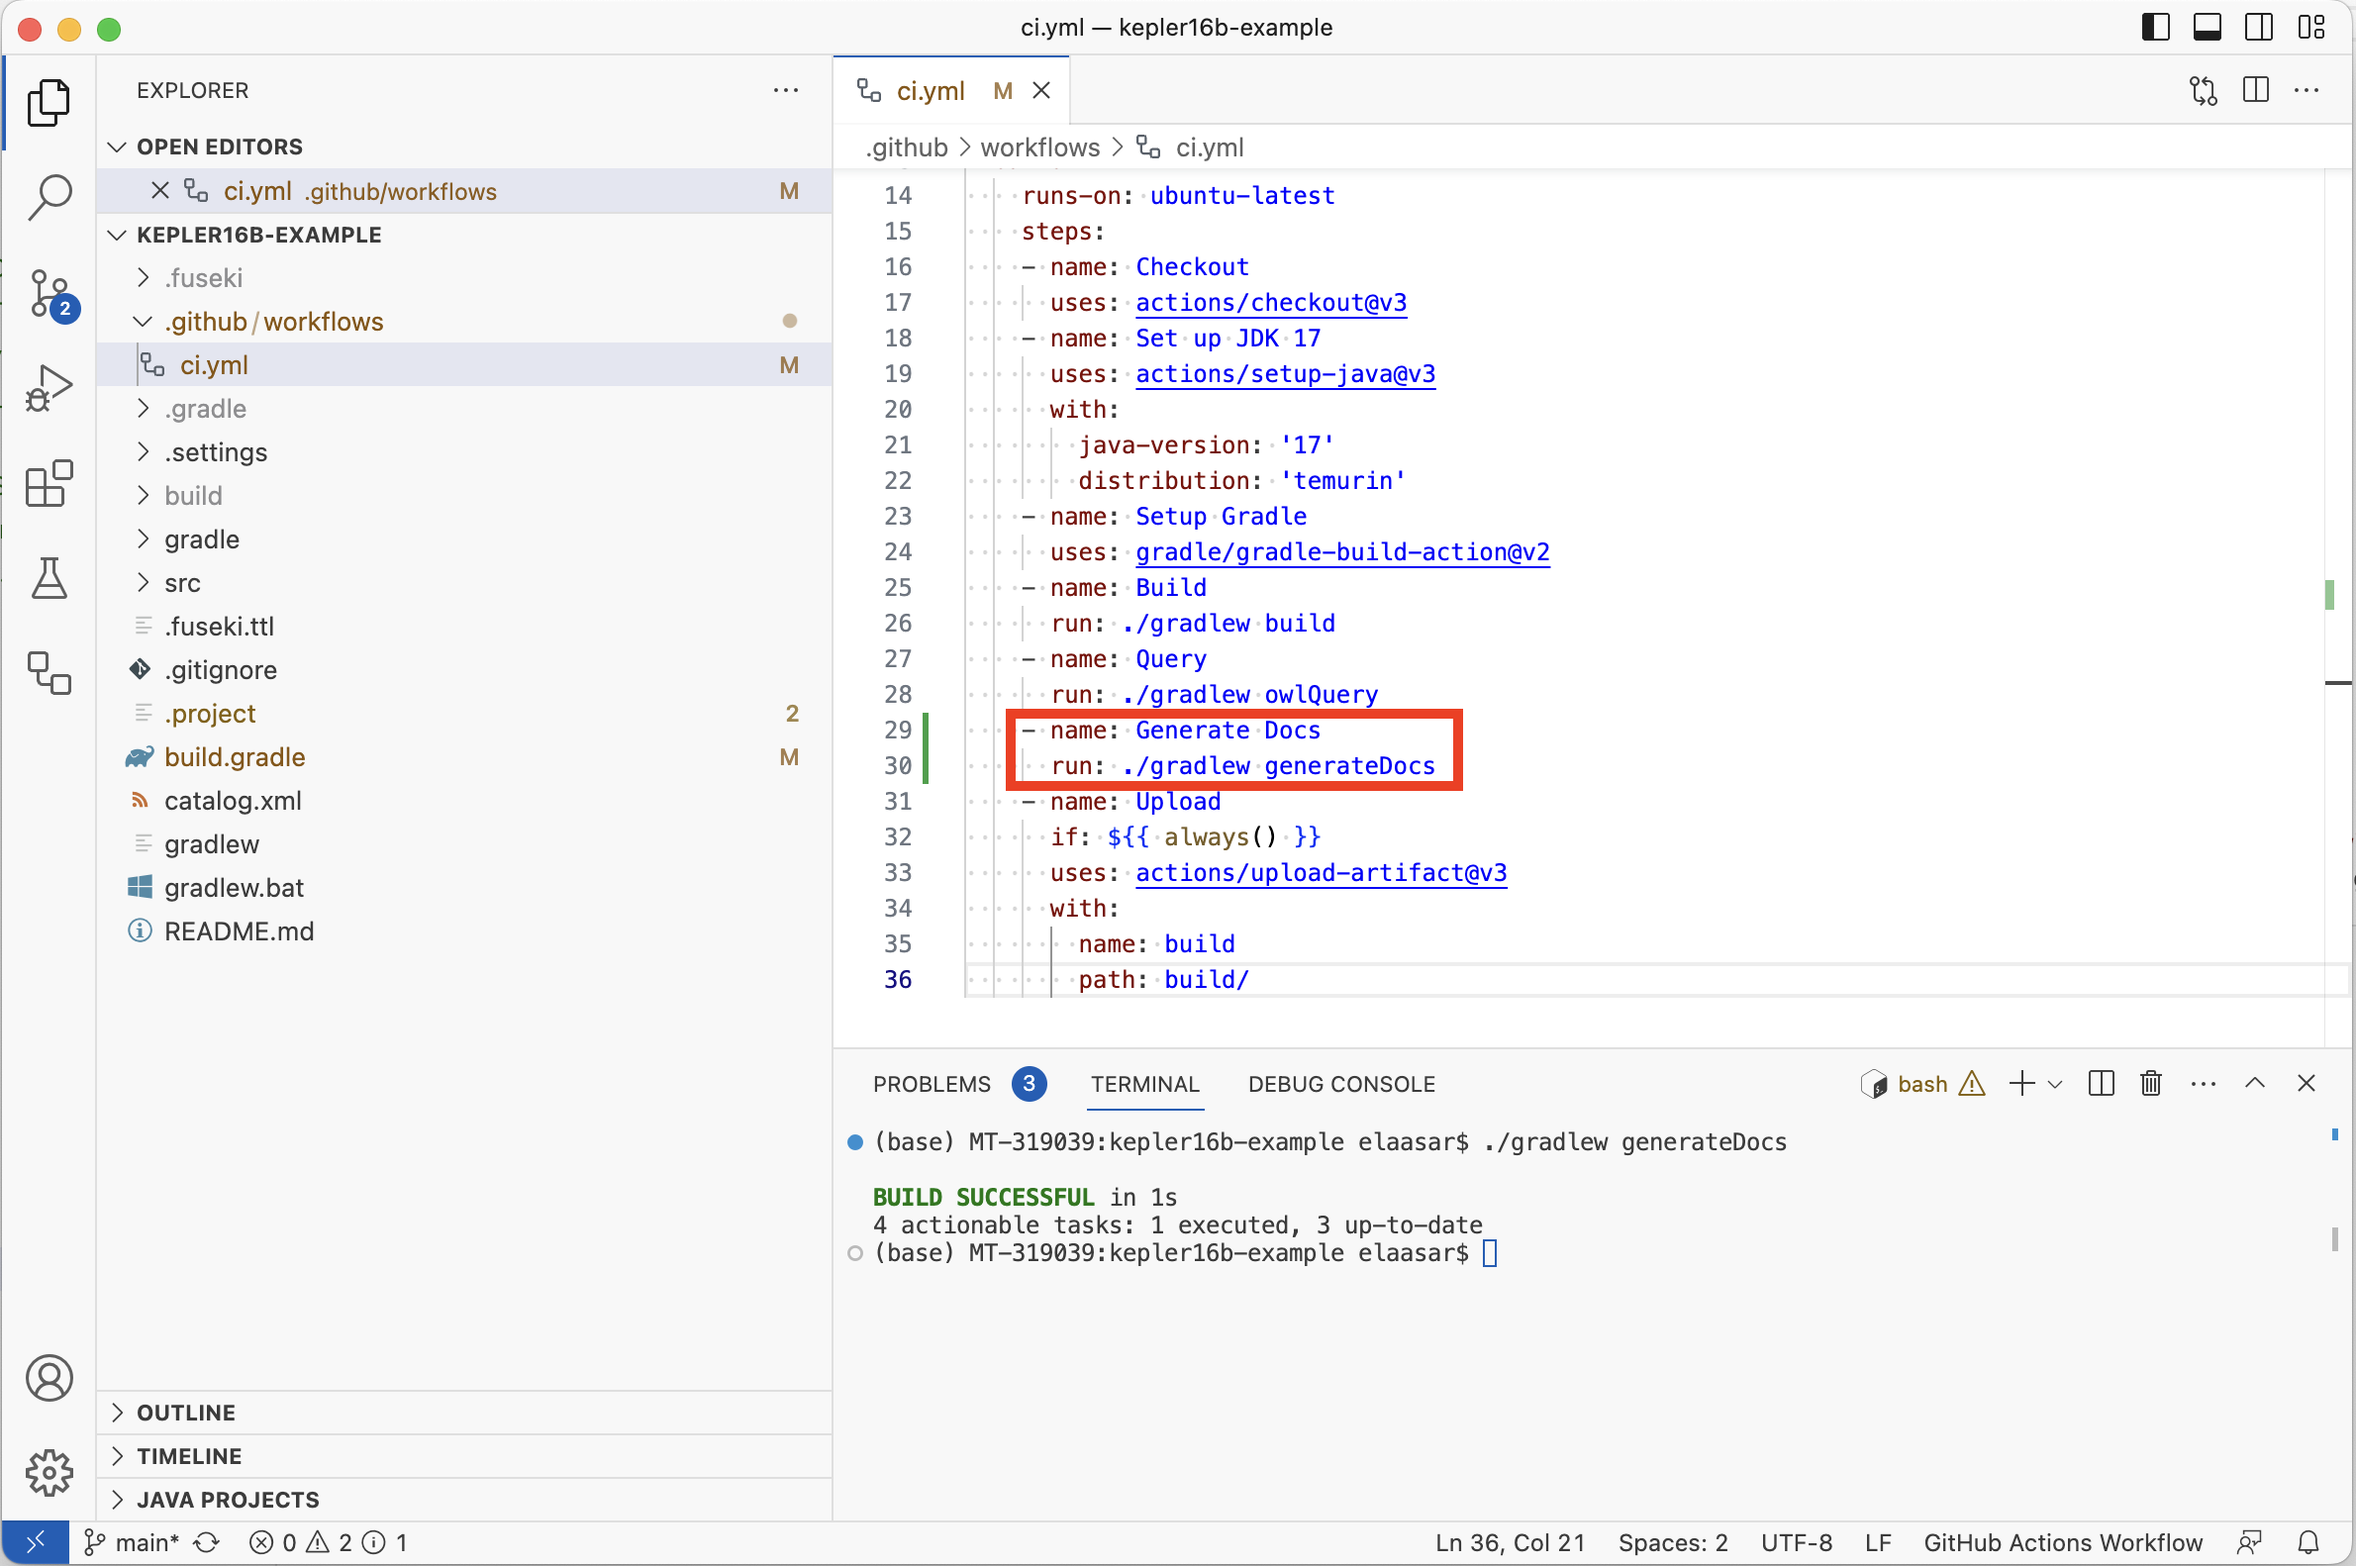
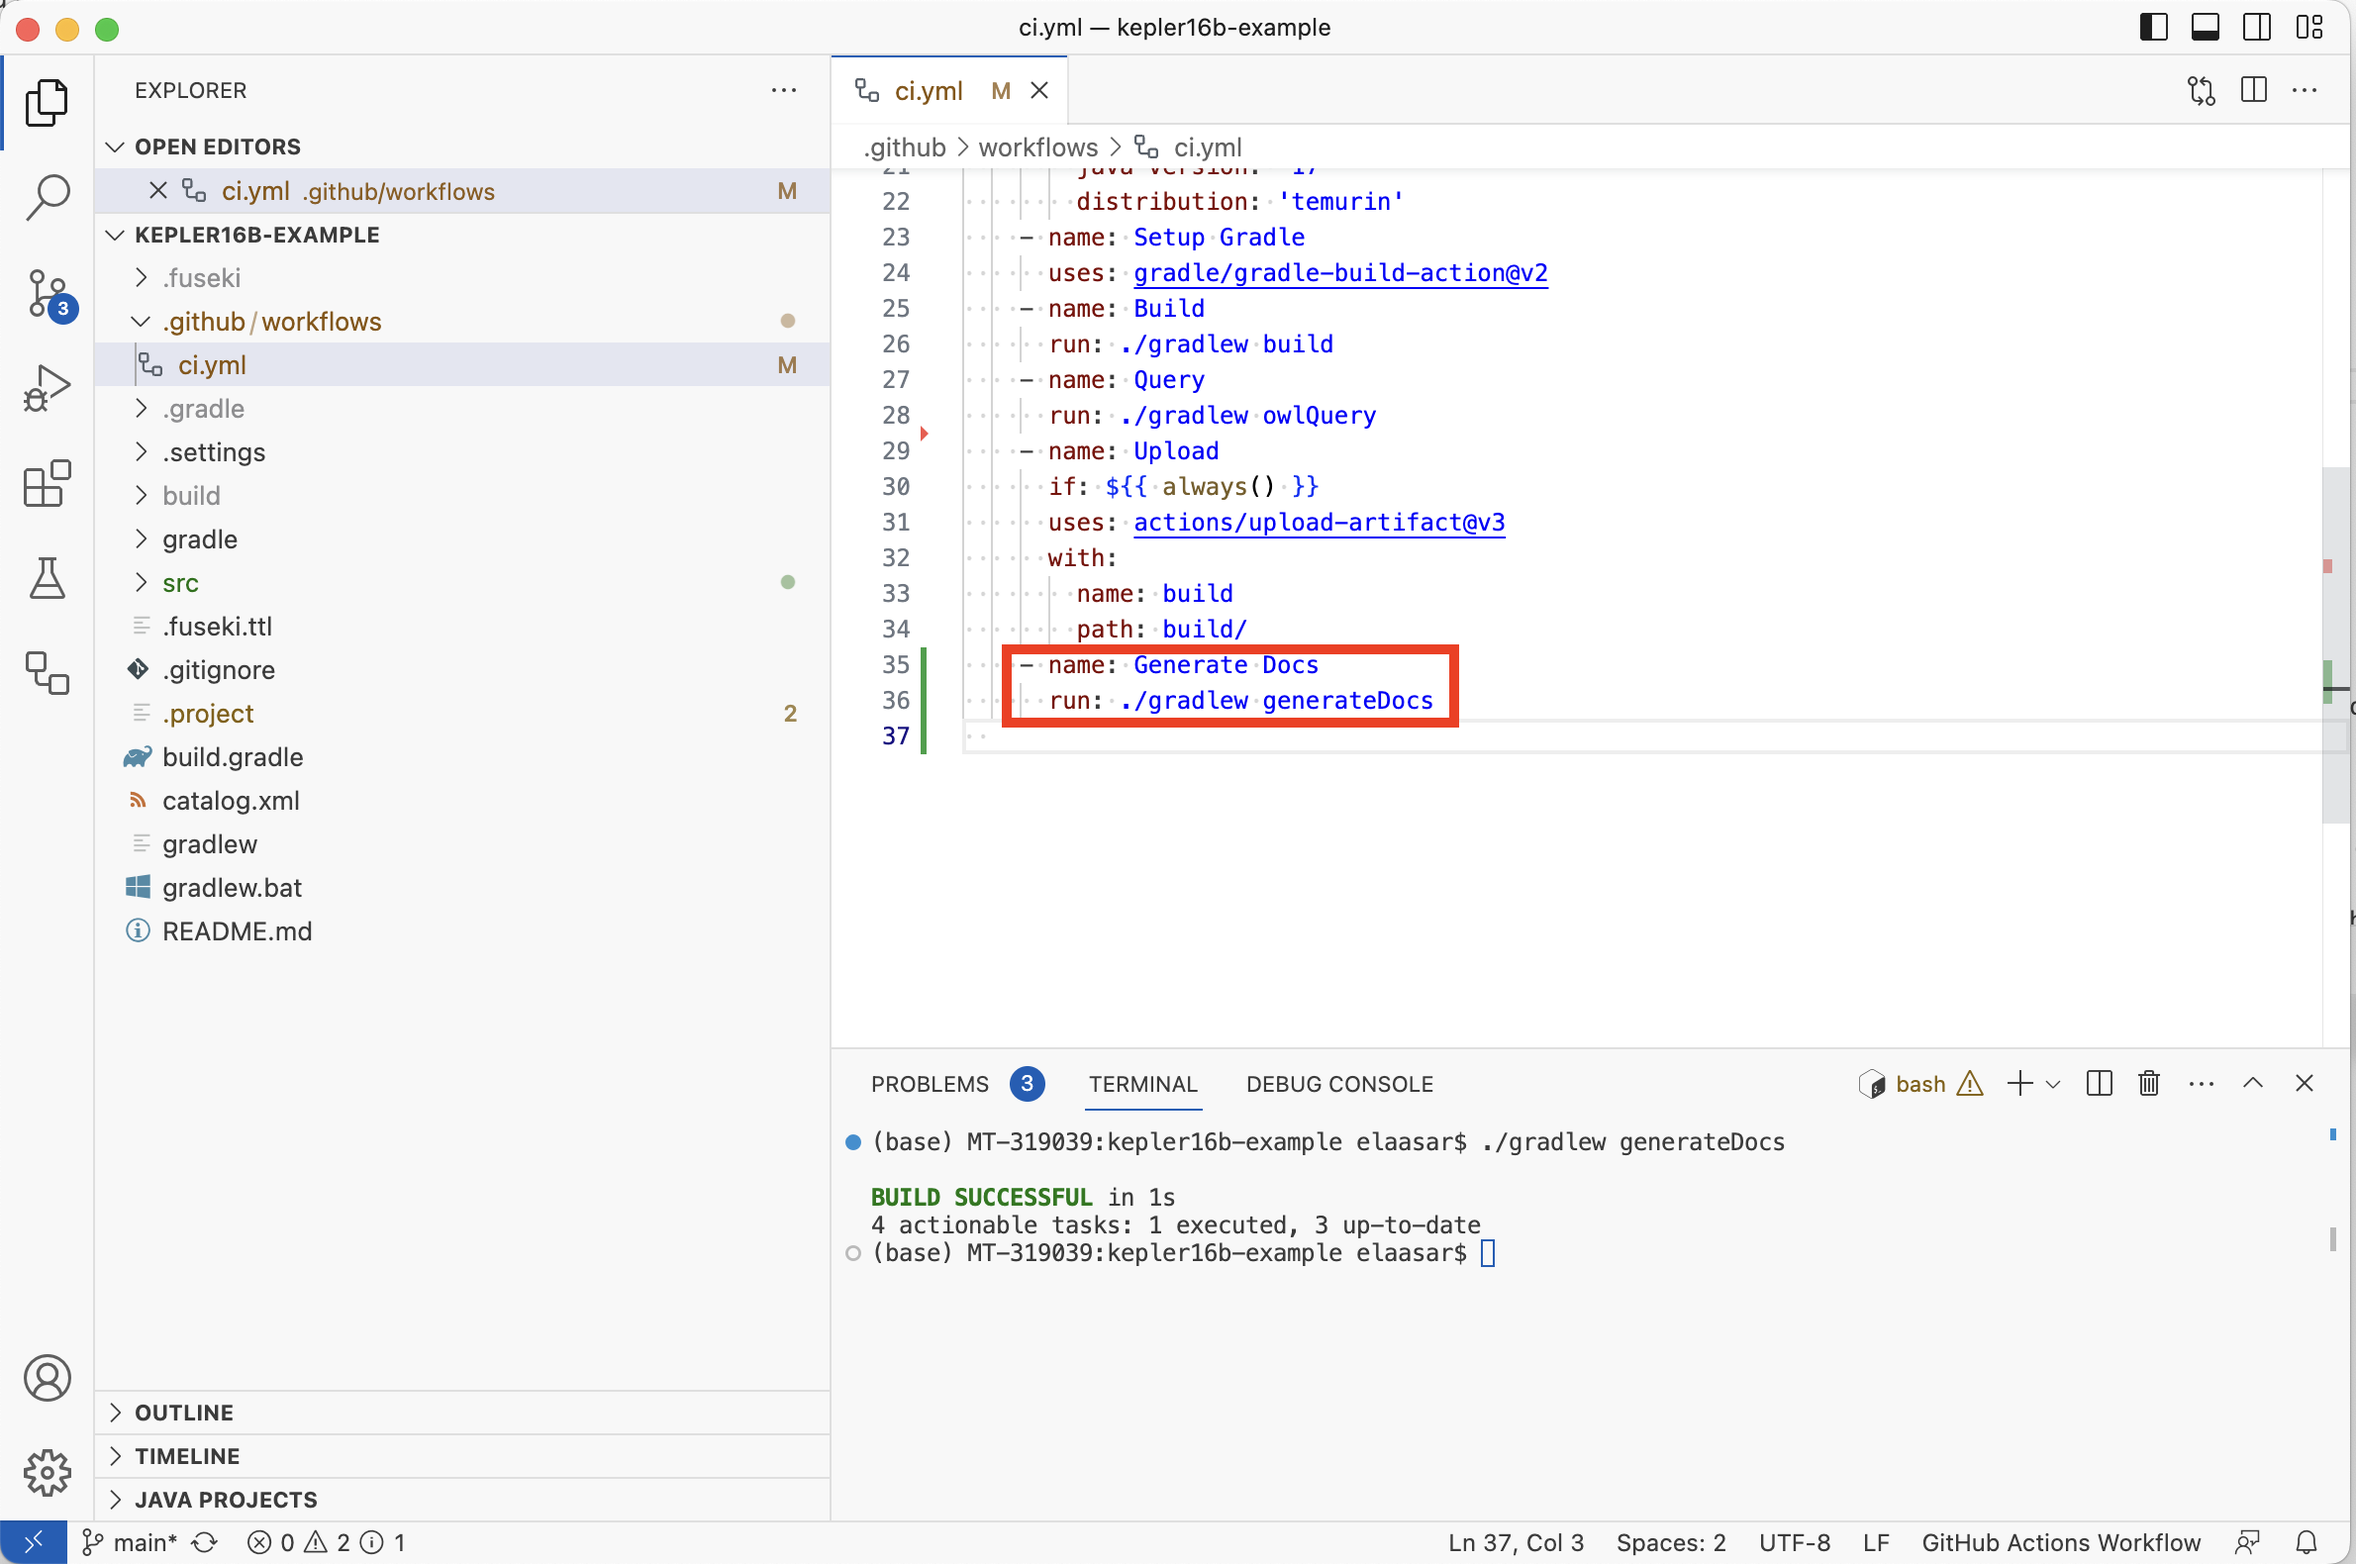
adding notebook and dependencies to CI

diff --git a/tutorial4.md b/tutorial4.md
@@ -121,7 +121,7 @@ task generateDocs(type: io.opencaesar.owl.doc.OwlDocTask, dependsOn: owlReason) 
 
 	<img src="assets/tutorial4/Browse-Generated-Owl-Doc.png" width="100%" style="border:1px groove black;"/>
 
-5. Open the `.github/workflows/ci.yml` file and add the following step right after the `Query` step.
+5. Open the `.github/workflows/ci.yml` file and add the following step right after the `Upload` step.
 
 ```yaml
     - name: Generate Docs
@@ -144,9 +144,92 @@ A convenient choice here is to deploy to the repository's [Github Pages](https:/
 
 	<img src="assets/tutorial4/Setup-Github-Pages.png" width="100%" style="border:1px groove black;"/>
 
+  Note: This choice means that the content of Pages will be published by a Github Actions workflow. As we will see below, this will allow the repository's CI script to publish it,
+
 ## Create Jupyter Notebook ## {#tutorial4-create-jupyter-notebook}
 
-TBD
+In this step, we will create a simple Jupyter Notebook in the project and setup the CI workflow to publish it to Github Pages.
+
+1. In VS Code Explorer, right click on the `src` folder, select New Folder, and call it `ipynb`.
+
+2. Right click on the `ipynb` folder, select New File, and call it `index.ipynb`. This opens a Jupiter Notebook editor with a single empty cell.
+
+	<img src="assets/tutorial4/Setup-Github-Pages.png" width="100%" style="border:1px groove black;"/>
+
+3. In the top right cornder of the editor, click on the `Select Kernel` button, select `Python Environments`, and select one of the available Python 3 environments. Notice that now the name of the selected kernel shows up in the top right corner.
+
+4. Hover over the first empty cell in the editor. A toolbar appears with a trash can. Click on the trash can to delete the cell.
+
+5. In place of the cell, you should now see two buttons, one says `Python` and the other says `Markdown`. Click on the latter. This adds a Markdown cell as the first cell.
+
+6. In the cell, type the following text, then click on the `✓` (tick) icon in the cell's toolbar to apply. The editor should now look like the picture below.
+
+```
+# Kepler16b
+The Kepler16b project is developing a hypothetical mission to an exoplanet that is millions of light years away.
+```
+
+	<img src="assets/tutorial4/Add-Notebook-Title.png" width="100%" style="border:1px groove black;"/>
+
+Before we go further, let us setup the CI script to publish this simple Notebook. This involves setting up a Python environment, installing some depednencies, running a couple of python tools to execute the notebook and convert it to HTML, then finally deploying that HTML to Github Pages.
+
+7. In VS Code Explorer, right click on the `ipynb` folder, choose New File, and name it `requirements.txt`. Insert the following text as its contents and save.
+
+```python
+ipykernel
+nbconvert
+pandas
+plantuml
+igraph
+cairocffi
+```
+Note: A `requirements.txt` file is a typical Python mechanism to declare dependencies. In this case, the first two dependencies are the minimum required to enable executing and converting the notebook to HTML. The rest of the dependencies are libraries that will be used in the steps below to visualize the analysis results.
+
+	<img src="assets/tutorial4/Add-Requirements.png" width="100%" style="border:1px groove black;"/>
+
+8. Open the `.github/workflows/ci.yml` file and add the following step right after the `Generate Docs` step.
+
+```yaml
+    - name: Set up Python 3
+      uses: actions/setup-python@v4
+      with: 
+        python-version: '3.10'
+    - name: Install Requirements
+      run: pip install -r src/ipynb/requirements.txt
+    - name: Run Notebook
+      run: python -m nbconvert --execute --to notebook --no-input src/ipynb/index.ipynb --output-dir='build/web' 
+    - name: Convert Notebook to HTML
+      run: python -m nbconvert --to html --no-input build/web/index.ipynb
+    - name: Publish
+      uses: actions/upload-pages-artifact@v1
+      with:
+        path: build/web
+        
+  deploy:
+    needs: build
+    permissions:
+      pages: write
+      id-token: write
+    environment:
+      name: github-pages
+      url: ${{ steps.deployment.outputs.page_url }}
+    runs-on: ubuntu-latest
+    steps:
+      - name: Deploy
+        id: deployment
+        uses: actions/deploy-pages@v1
+```
+	<img src="assets/tutorial4/Add-Owl-Doc-To-CI.png" width="100%" style="border:1px groove black;"/>
+
+Note: The first set of steps are added to the `build` job. They setup a Python 3 environment, install the dependencies, run the notebook, convert it to HTML in the `build/web` folder, then upload the folder as a Pages artifact. Then, a new job named `deploy` is added. This job runs after `build` is done and deploys the Pages artifact to the web server.
+
+9. Using the Source Control tab, commit and push all the three files `index.ipynb`, `requirements.txt` and `ci.yml`. Check that the CI workflow succeeded on the repository's Actions tab. You should see the following page in your browser:
+
+	<img src="assets/tutorial4/First-Noetbook-CI-Build.png" width="100%" style="border:1px groove black;"/>
+
+10. Click on the hyperlink in the `deploy` box to navigate the deployed Github Pages of the repository. This should open up a new page that looks like this:
+
+
 
 ## P1: Reference Documentation ## {#tutorial4-reference-documentation}
 
